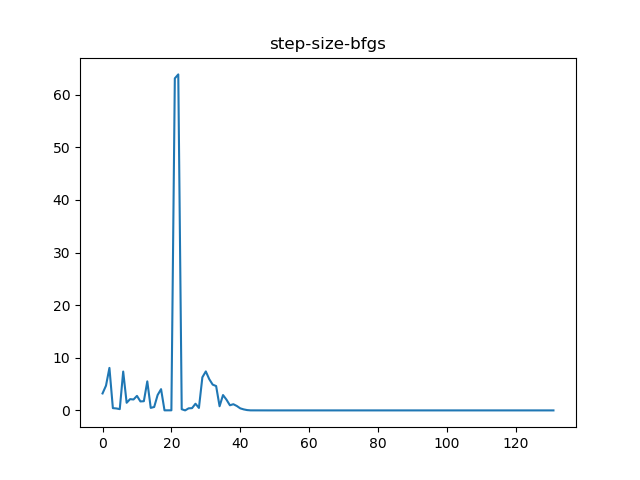
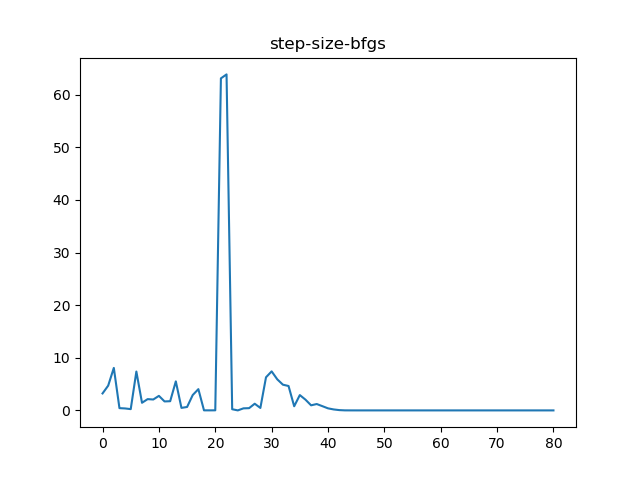
done with bfgs, started working on heat equation

diff --git a/aufg1/aufg1.py b/aufg1/aufg1.py
@@ -1,5 +1,8 @@
 from PIL import Image
 import numpy as np
+from numba import jit
+import matplotlib.pyplot as plt
+import os
 
 def tridiag(a,b,c,size):
 	return np.diag([a]*(size-1),-1) + np.diag([b]*(size),0) + np.diag([c]*(size-1),1)
@@ -10,27 +13,65 @@ def set_margin(img, margin):
 	img[:,0] 	= margin
 	img[:,-1] 	= margin
 
+	return img
+
 def create_image(size, margin = 0):
 	img = np.random.rand(size, size)
-	""" big spot in center
+	#big spot in center
+	"""
 	img = np.zeros((size,size))
-	b = 20
+	
+	b = 5
 	for i in range(size//2-b, size//2+b):
 		for j in range(size//2-b, size//2+b):
 			img[i,j] = 1
 	"""
+	img = set_margin(img, margin)
+	
 	return img
 
-def iter(A):
-	# Bla bla
-	return A
+alpha = 1
+delta_t = 1
+hsquared = 1
+coef = (alpha*delta_t)/hsquared
 
-def make_movie(A):
-	for i in range(300):
-		a = Image.fromarray(np.uint8(image*255))
+def _neighborhood(i,j):
+	return [(i+1, j), (i-1, j), (i, j+1), (i, j-1)]
+
+@jit
+def iter(A, margin = 0):
+	img = (1-coef)*A.copy()
+	for i in range(1, len(A)-1):
+		for j in range(1, len(A[0])-1):
+			s = 0
+			for (k,l) in _neighborhood(i,j):
+				s += A[k,l]
+			img[i,j] += s/4 * coef
+
+	img = set_margin(img, margin)
+	return img
+
+def make_movie(A, N, heat=False):
+	for i in range(N):
+		print("{}%".format(int(i/N*100)))
 		number = str(i).zfill(3)
-		a.save("movie/frame{}.png".format(number))
+
+		filename = "video/frame{}.png".format(number)
+
+		if heat:
+			fig = plt.figure()
+			plt.imshow(A, cmap='hot', interpolation='nearest')
+			plt.savefig(filename)
+			plt.close(fig)
+
+		else:
+			a = Image.fromarray(np.uint8(A*255))
+			a.save(filename)
+
 		A = iter(A)
 
-L = tridiag(1,-4,1,10)
-print(L)
+	os.system("ffmpeg -f image2 -r 30 -i video/frame%03d.png -vcodec mpeg4 -y video.mp4")
+
+
+A = create_image(200)
+make_movie(A, 300, heat = True)

diff --git a/aufg2/aufg2.py b/aufg2/aufg2.py
@@ -91,9 +91,8 @@ def newton_with_hessian(curr, atol = 10**(-11)):
 	ys = [np.linalg.norm(gradf(xs[-1]))]
 
 	while ys[-1] > atol:
-		np.array(np.linalg.inv(hessf(xs[-1]))					,dtype=np.float64)
 		hessf_inv = np.array(np.linalg.inv(hessf(xs[-1]))		,dtype=np.float64)
-		xs.append( xs[-1] - np.matmul(gradf(xs[-1]),hessf_inv) )
+		xs.append( xs[-1] - np.matmul(hessf_inv,gradf(xs[-1])))
 		ys.append( np.linalg.norm(gradf(xs[-1])) )
 	return xs, ys
 
@@ -101,15 +100,14 @@ def quasi_newton_bfgs(curr, atol = 10**(-11)):
 	xs = [curr]
 	ys = [np.linalg.norm(gradf(xs[-1]))]
 
-	B = np.array(np.eye(len(curr)), dtype=np.float64)
+	Binv = np.array(np.eye(len(curr)), dtype=np.float64)
+	p = (-1)*gradf(curr)
 
 	alphas = [2]
 	for i in range(10):
 		alphas.append(alphas[-1]/2)
-
+	
 	while ys[-1] > atol:
-		p = solve(B, (-1)*gradf(xs[-1]))
-
 		fargmin = []		
 		for a in alphas:
 			fargmin.append(func(xs[-1] + a*p))
@@ -121,20 +119,27 @@ def quasi_newton_bfgs(curr, atol = 10**(-11)):
 
 		y = gradf(xs[-1]) - gradf(xs[-2])
 
-		A = 1/np.dot(y,s) * np.outer(y,y)
-		C = 1/np.dot(s, np.matmul(B,s))*np.matmul(B, np.matmul(np.outer(s,s), B.T))
+		S1 = (np.dot(s,y) + np.dot(y, np.matmul(Binv, y)))*np.outer(s,s)
+		S1 = S1 * 1/np.dot(s,y)**2
 
-		B = B + A - C
+		S2 = np.matmul(Binv, np.outer(y,s)) + np.matmul(np.outer(s,y),Binv)
+		S2 = S2 * 1/np.dot(s,y)
 
-	return xs, ys, B
+		Binv = Binv + S1 - S2
+
+		p = np.matmul(Binv, (-1)*gradf(xs[-1]))
+
+	return xs, ys, Binv
 
 
 x = [0,0,0,0,0,0,0]
 
 xs, ys = newton_with_hessian(x)
+print(func(xs[-1]))
 _save_iteration_graph(ys, "iteration-hessian")
 _save_step_size_graph(xs, "step-size-hessian")
 
 xs, ys, H_bfgs = quasi_newton_bfgs(x)
+print(func(xs[-1]))
 _save_iteration_graph(ys, "iteration-bfgs")
 _save_step_size_graph(xs, "step-size-bfgs")
